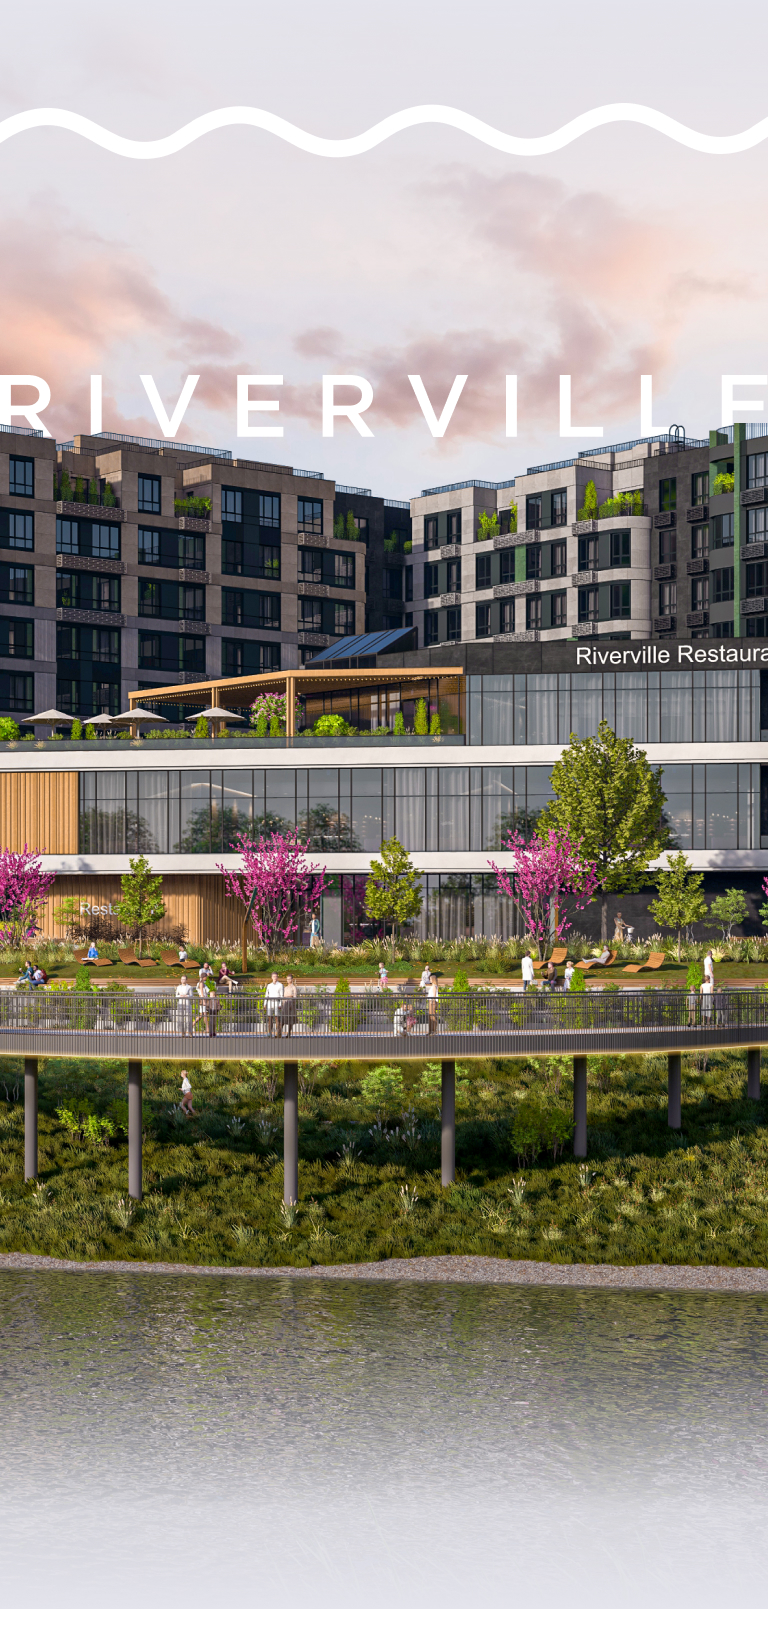
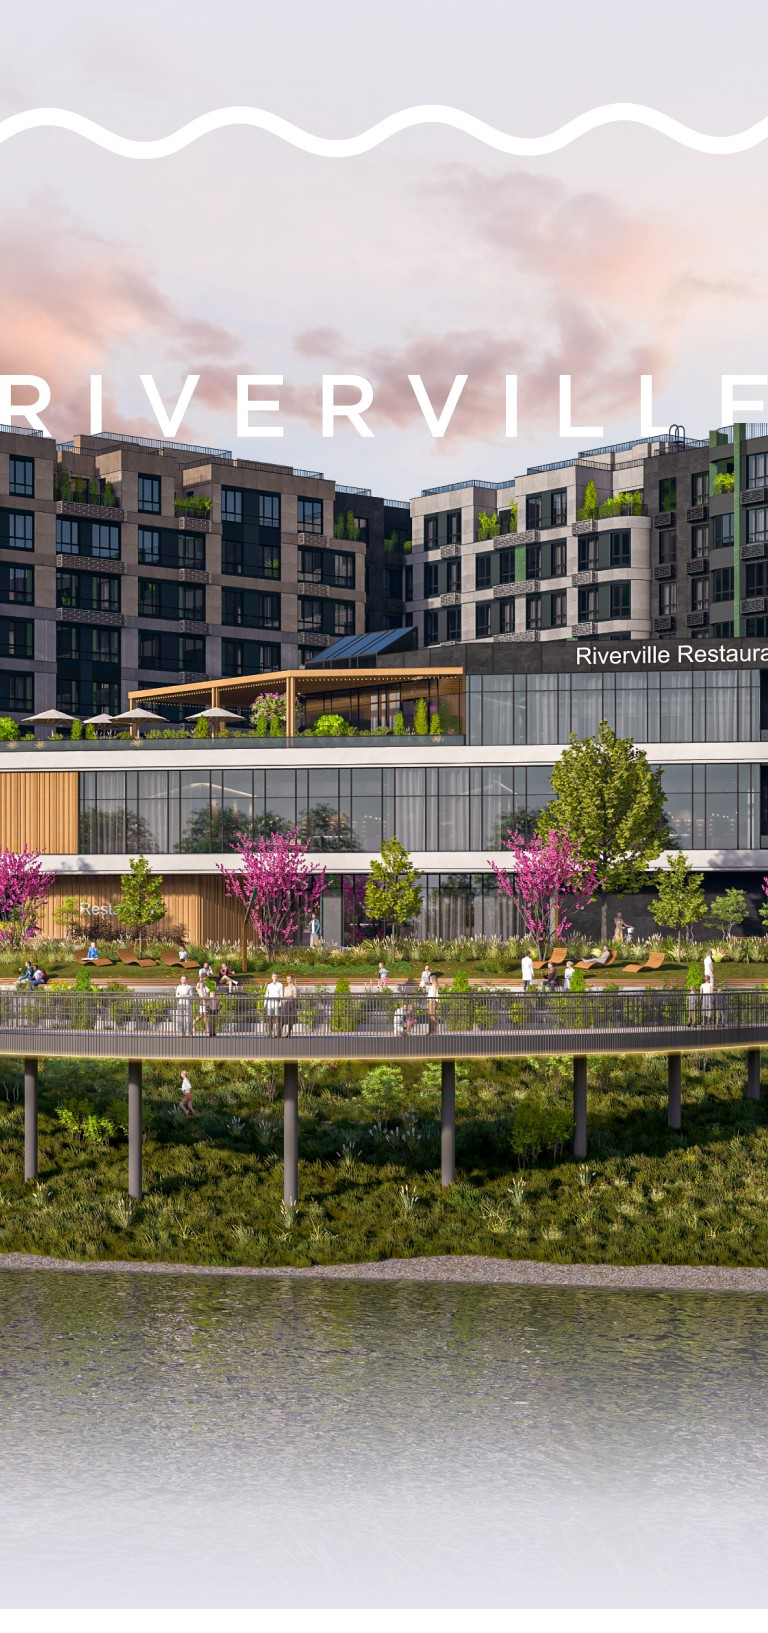
corrections 4

diff --git a/src/assets/styles/pages/about.scss b/src/assets/styles/pages/about.scss
@@ -28,7 +28,9 @@
             padding-right: var(--page-side-fields);
         }
         @include from-to(601px, 1024px){
-            margin-top: -50px;
+            // margin-top: 0;
+            padding-top: 50px;
+            background: linear-gradient(0deg, rgba(255, 255, 255, 0) 0%,rgba(228,228,236,1) 100%);
         }
         @include to(600px){
             position: relative;

diff --git a/src/assets/styles/layouts/home/home-front-screen.scss b/src/assets/styles/layouts/home/home-front-screen.scss
@@ -101,6 +101,7 @@
     @include to(600px) {
       // padding-left: 15%;
       // padding-right: 15%;
+      max-width: 20ch;
     }
   }
 
@@ -151,6 +152,7 @@
     height: 100%;
     z-index: 7;
     pointer-events: none; 
+    display: none;
     &>* {
       pointer-events: all;
     }

diff --git a/src/assets/styles/pages/infrastructure.scss b/src/assets/styles/pages/infrastructure.scss
@@ -136,6 +136,10 @@
                 margin-top: 20px;
             }
         }
+        @include to(600px){
+            padding-left: 10px;
+            padding-right: 10px;
+        }
     }
     &__bg {
         position: relative;
